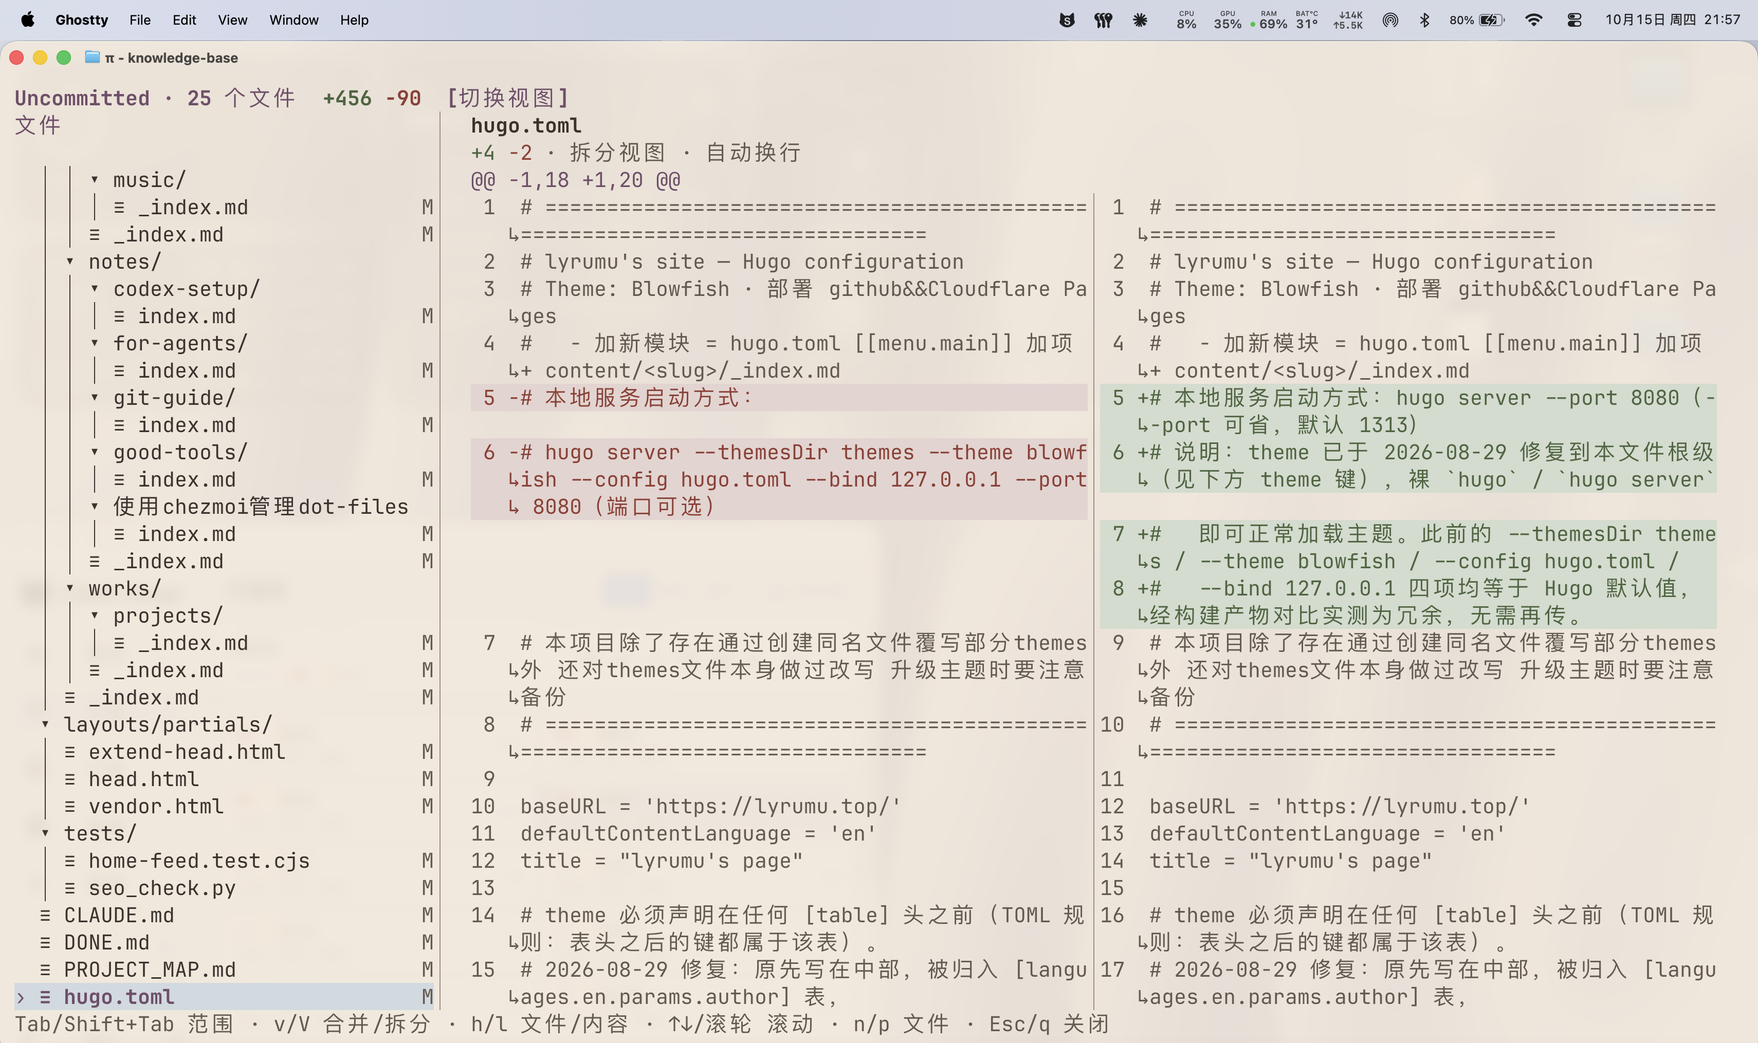
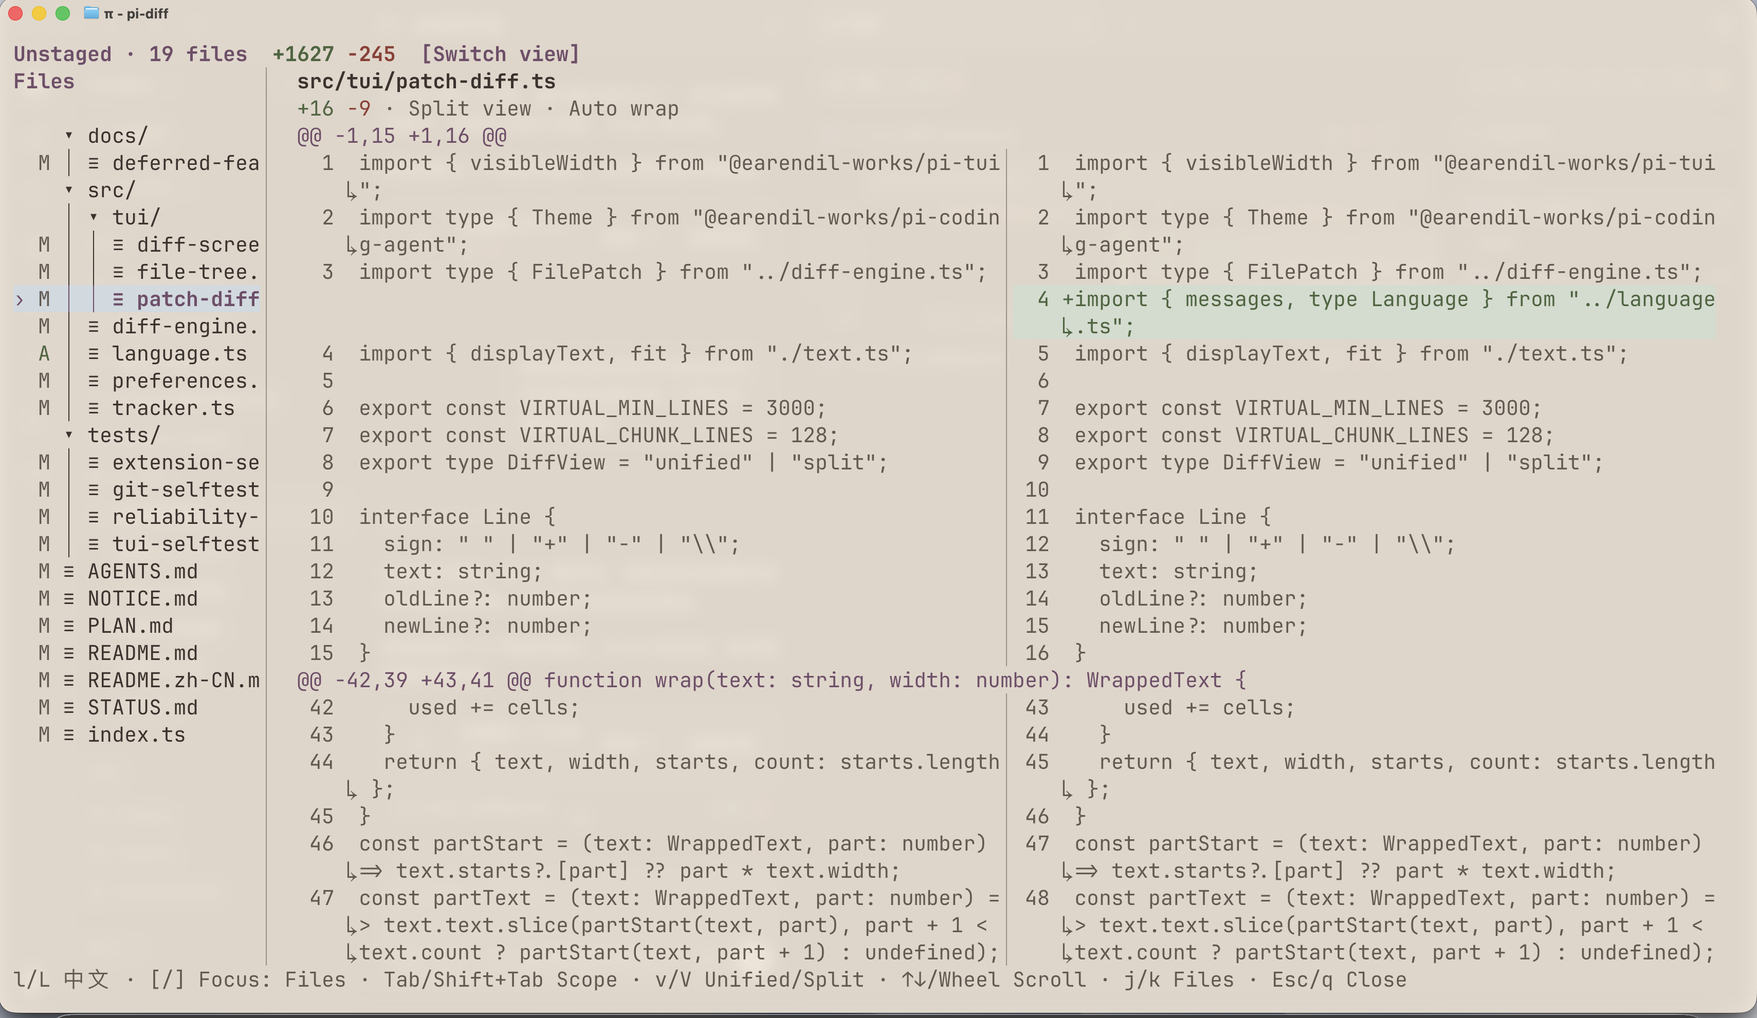
更新文章及其封面,更新pi-diff的README

diff --git a/content/works/pi-diff/index.md b/content/works/pi-diff/index.md
@@ -2,10 +2,11 @@
 title: "pi-diff"
 description: "Review pi-diff features, installation, usage, and limitations in pi, with unified and split diff views."
 date: 2026-10-16
+lastmod: 2026-10-21
 type: "work"
 layout: "page"
 draft: false
-readmeSource: "https://github.com/lyrumu/pi-diff/blob/df96f0b698a82424b9eae5c142f9e6947ff54fb1/README.md"
+readmeSource: "https://github.com/lyrumu/pi-diff/blob/5c9a75829f27d5738b945d028e99832b852b81a9/README.md"
 showHero: false
 showDate: false
 showAuthor: false
@@ -18,7 +19,7 @@ showRelatedContent: false
 showComments: false
 ---
 
-[![English](https://img.shields.io/badge/README-English-blue)](https://github.com/lyrumu/pi-diff/blob/df96f0b698a82424b9eae5c142f9e6947ff54fb1/README.md) [![简体中文](https://img.shields.io/badge/README-%E7%AE%80%E4%BD%93%E4%B8%AD%E6%96%87-lightgrey)](https://github.com/lyrumu/pi-diff/blob/df96f0b698a82424b9eae5c142f9e6947ff54fb1/README.zh-CN.md)
+[![English](https://img.shields.io/badge/README-English-blue)](https://github.com/lyrumu/pi-diff/blob/5c9a75829f27d5738b945d028e99832b852b81a9/README.md) [![简体中文](https://img.shields.io/badge/README-%E7%AE%80%E4%BD%93%E4%B8%AD%E6%96%87-lightgrey)](https://github.com/lyrumu/pi-diff/blob/5c9a75829f27d5738b945d028e99832b852b81a9/README.zh-CN.md)
 
 Review per-turn, session-wide, and Git changes in a fullscreen TUI inside [pi](https://github.com/earendil-works/pi). Browse changed files on the left and inspect diffs on the right, with mouse support, automatic line wrapping, and unified or split views.
 
@@ -26,36 +27,48 @@ Review per-turn, session-wide, and Git changes in a fullscreen TUI inside [pi](h
 
 ## Features
 
+- **Review at different scopes:** inspect the latest task, session total, or Git changes, with file counts and added/removed line totals.
+- **Keep your history:** recorded task diffs remain available after reloading pi, resuming a session, or switching session branches.
+- **Use either language:** switch between English and Simplified Chinese with `l` / `L`; your choice is remembered.
+- **Review safely:** viewing diffs does not stage, commit, or revert files. Task and session views also work outside Git repositories.
+
 ### Unified and split views
 
-Read additions and deletions together, or compare the old and new versions side by side. Press `v` / `V` or click the view toggle to switch layouts; your preference is saved. Long lines wrap automatically, with source line numbers preserved and both sides aligned in split view. Diff colors follow your pi theme. Added and deleted files always use unified view; narrow terminals also fall back to unified view.
+Read changes in one column or compare old and new content side by side. Press `v` / `V` or click the view toggle to switch. Long lines wrap automatically, and colors follow your pi theme. Added/deleted files and narrow windows use unified view.
 
-![Unified view with a changed-file tree, total line counts, and highlighted additions and deletions](unified-view.png "Unified view")
+![Unified view with a changed-file tree and highlighted additions and deletions](unified-view.png "Unified view")
 
-![Split view comparing old and new content side by side, with wrapped lines aligned](split-view.png "Split view")
+![Split view comparing old and new content side by side](split-view.png "Split view")
 
-Click a screenshot to view it at full size.
+Click either image to view it at full size.
+
+### File tree and draggable divider
+
+![File tree with A/M/D markers and a highlighted draggable divider](file-tree-resize.png)
+
+Find changed files in collapsible directories. `A`, `M`, and `D` indicate added, modified, and deleted files.
+
+Drag the divider to give more space to the tree or diff; double-click to reset. Drag to the left edge to hide the tree, then press `[` or click `[Show files]` to bring it back.
 
 ### Inspired by opencode
 
-The diff viewer takes its design and core behavior from [opencode](https://github.com/anomalyco/opencode), bringing its terminal review experience into pi through `/diff`.
-
-### Review changes without leaving pi
-
-- **Five review scopes:** inspect the last turn, session total, unstaged changes, uncommitted changes, or all branch changes. Switch with `Tab` / `Shift+Tab`.
-- **Change totals at a glance:** see the current scope's file count and total added/removed lines at the top, plus counts for the selected file.
-- **Find your way through changed files:** browse a collapsible file tree with a highlighted selection and `A` / `M` / `D` markers. Use the keyboard or click and scroll with the mouse.
-- **Pick up where you left off:** recorded per-turn diffs remain available after reloading pi, resuming a session, or switching session branches.
-- **Read-only review:** inspect changes without staging, committing, or reverting them. Last-turn and session views also work outside Git repositories.
+Inspired by [opencode](https://github.com/anomalyco/opencode), pi-diff brings its terminal diff review experience into pi through `/diff`.
 
 ***
 
 ## Installation
 
-Requires pi **1.2.0** (tested version), Node.js ≥ 22.19.0, npm, and Git.
+Project development environment: pi **1.2.0 or later**, Node.js ≥ 22.19.0, npm, and Git.
 
 ```bash
 # Install the extension
+pi install npm:@lyrumu/pi-diff
+```
+
+Alternatively, install from GitHub:
+
+```bash
+# Install from GitHub
 pi install git:github.com/lyrumu/pi-diff
 ```
 
@@ -65,54 +78,62 @@ To update or uninstall:
 
 ```bash
 # Update the extension
-pi update git:github.com/lyrumu/pi-diff
+pi update npm:@lyrumu/pi-diff
 
 # Uninstall the extension
-pi remove git:github.com/lyrumu/pi-diff
+pi remove npm:@lyrumu/pi-diff
 ```
+
+If you installed from GitHub, use `git:github.com/lyrumu/pi-diff` as the source in both commands instead.
 
 ***
 
 ## Usage
 
-Start pi in your project directory, let it make a change, then enter `/diff`. The viewer opens **Last turn** by default.
+Start pi in your project directory and enter `/diff`. Git repositories open **Unstaged** by default; other projects open **Last turn**. To browse files, press `[`, select with `j` / `k`, then press `]` to read and scroll the diff. The interface starts in English; press `l` / `L` for Simplified Chinese.
 
 Press `Tab` / `Shift+Tab` to cycle forward or backward through the available scopes:
 
 | Scope | Changes shown |
 |---|---|
-| Last turn | Changes from the most recent task; empty if that task made no changes |
+| Last turn | Changes from the most recent task |
 | Session total | Cumulative changes recorded on the current session branch |
-| Unstaged | Index → working tree: unstaged changes |
-| Uncommitted | HEAD → working tree: staged and unstaged changes |
-| All branch changes | All changes since the merge base with the default base branch, including committed and uncommitted changes |
+| Unstaged | Changes that have not been staged |
+| Uncommitted | Staged and unstaged changes |
+| All branch changes | Changes relative to the base branch, including committed and uncommitted work |
 
-Git scopes also include untracked files. Outside a Git repository, only the first two scopes are available. The extension only reads Git state; it does not stage, commit, or revert changes.
+Git scopes also include untracked files. Outside a Git repository, only the first two scopes are available.
+
+### Keyboard and mouse
+
+![English shortcut bar: l/L language, brackets for focus, Tab/Shift+Tab scope, v/V view, arrows or wheel and j/k for scrolling, Esc/q to close](keyboard-shortcuts.en.png)
+
+The shortcut bar follows the current focus: `j` / `k` select files when the tree is focused and scroll when the diff is focused.
 
 | Action | Keyboard / mouse |
 |---|---|
 | Select files and collapse directories | Click; use `↑↓` in the file tree and `Enter` / Space to expand or collapse directories |
-| Previous / next file | `p` / `n` |
-| Focus the file tree / diff | `h` / `l`; mouse interaction focuses the corresponding pane |
-| Scroll | Mouse wheel, `↑↓`, `PageUp` / `PageDown`; `Home` / `End` in the diff pane |
+| Next / previous file | `j` / `k` while the file tree is focused |
+| Focus the file tree / diff | `[` / `]`, or click the corresponding pane |
+| Resize / hide the file tree | Drag the divider; drag to the left edge to hide; double-click to reset the width |
+| Show the hidden file tree | `[` or click `[Show files]` at the top |
+| Scroll the diff | Mouse wheel, `↑↓`, `j` / `k`, `PageUp` / `PageDown`; `Home` / `End` jump to the start / end |
 | Switch unified / split view | `v` / `V`, or click the view toggle at the top |
+| Switch English / Simplified Chinese | `l` / `L` |
 | Close | `Esc` / `q` |
 
-File markers indicate modified (`M`), added (`A`), and deleted (`D`) files. Added and deleted files always use unified view. The diff pane also uses unified view when it is less than 100 columns wide. In narrow terminals, use `h` / `l` to switch between the file tree and diff pages.
-
-Long lines wrap automatically. Source line numbers appear only on the first visual row, and continuation rows use `↳`. Split views keep both sides aligned. Added and removed lines use theme colors, and your layout preference is saved.
+In narrow windows, `[` / `]` switch between the file tree and diff pages.
 
 ***
 
 ## Data and limitations
 
-- Only changes made after the extension is enabled are recorded, within the project directory. Missing history from older sessions is not recovered.
-- Per-turn diffs are saved with the pi session and remain available after reloading, resuming, or switching session branches. Content caches and layout preferences are stored in `~/.pi/agent/data/pi-diff/`.
-- Outside Git repositories, shell changes may lack the original content and show `baseline unknown`. Missing cumulative caches are explicitly marked as incomplete.
-- Binary files and diffs exceeding the 10 MB limit show a notice instead of their contents. Very narrow terminals may clip content.
+- Task and session history only covers changes recorded after enabling the extension, within the project directory. Git scopes can show existing changes.
+- Outside Git repositories, shell changes may show `Previous contents unknown`. If a complete session total cannot be restored, the viewer says so.
+- Binary files and diffs exceeding 10 MB show a notice instead of their contents.
 
 ***
 
 ## License
 
-[MIT](https://github.com/lyrumu/pi-diff/blob/df96f0b698a82424b9eae5c142f9e6947ff54fb1/LICENSE). Parts of the implementation are ported from [opencode](https://github.com/anomalyco/opencode). See [NOTICE.md](https://github.com/lyrumu/pi-diff/blob/df96f0b698a82424b9eae5c142f9e6947ff54fb1/NOTICE.md) and [third-party licenses](https://github.com/lyrumu/pi-diff/blob/df96f0b698a82424b9eae5c142f9e6947ff54fb1/THIRD_PARTY_LICENSES.md) for attribution and license terms.
+[MIT](https://github.com/lyrumu/pi-diff/blob/5c9a75829f27d5738b945d028e99832b852b81a9/LICENSE). Parts of the implementation are ported from [opencode](https://github.com/anomalyco/opencode). See [NOTICE.md](https://github.com/lyrumu/pi-diff/blob/5c9a75829f27d5738b945d028e99832b852b81a9/NOTICE.md) and [third-party licenses](https://github.com/lyrumu/pi-diff/blob/5c9a75829f27d5738b945d028e99832b852b81a9/THIRD_PARTY_LICENSES.md) for attribution and license terms.

diff --git a/content/notes/Claude网页版稳定使用方法/index.md b/content/notes/Claude网页版稳定使用方法/index.md
@@ -1,0 +1,146 @@
+---
+title: "Claude网页版稳定使用方法"
+date: 2026-10-23T11:38:07-04:00
+draft: false
+description: "记录 Claude 网页版使用环境的配置方法：选择与检测 VPS、搭建 sing-box 中转节点、导入 Clash Verge Rev，以及检查 IPv6、浏览器语言和系统时区。"
+slug: ""
+aliases: []
+weight: 0 #如果文章需要置顶 把weight改成负数即可
+tags: [] # 可留空，通常 0–2 个具体主题；由作者选择
+categories: [] # 作者选一项：tutorials / share-resources / engineering-practice
+topics: []
+series: []
+showDateUpdated: false
+dateUpdated: ""
+images: []
+showHero: true
+heroStyle: "background"
+heroBackground: ""
+heroImage: ""
+heroBackgroundImage: ""
+showTableOfContents: true
+showBreadcrumbs: true
+showReadingTime: true
+showWordCount: true
+showZenMode: true
+showRelatedContent: false
+relatedContentLimit: 3
+showComments: false
+sharingLinks: []
+---
+
+## 使用前先检查环境
+
+最终目标就是将 [Claude AI 风险监测](https://ip.net.coffee/claude/) 中的指标尽可能地都变成**绿色**，其中最重要的就是 IP 地址。
+
+> 注意，一定是先等到设备检测指标都为绿色了，再开始进入 Claude 的网址进行注册和订阅。
+>
+> 每次设备重启，都先检查一下指标是否正常，顺序不要搞错。
+
+***
+
+## 选择并检测 VPS
+
+尽量确保 IP 地址**干净纯粹并且独享**，因为 Claude 有连坐机制，同 IP 一个人被封禁，其余所有人都会受牵连。
+
+所以需要租用[海外服务器](https://digvps.com/)：点击“测评”，选择合适的 VPS。重点对比 **IP 纯净度**和**网络速度（延迟）**，地区尽可能选择美国。
+
+云服务器大致要求：
+
+| 项目 | 要求 |
+| --- | --- |
+| CPU | 1 核够用 |
+| 内存 | 512 MB 及以上 |
+| 硬盘 | 推荐 10 GB 左右 |
+| 流量 | 500 GB 左右就够用，要看租期时长 |
+
+![VPS 控制台中的服务器配置、公有 IPv4 与启动按钮](image/vps-console-redacted.png "VPS 控制台")
+
+购买 VPS 后：
+
+1. 点进去将服务器“启动”起来。
+2. 使用 [VPS 的 IP 稳定性检测](https://www.itdog.cn/ping/)，点击“在线 Ping”，检测一下该服务器的 IP 质量，一般使用公有 IPv4 进行检测。
+
+![在线 Ping 的各地区延迟检测结果](image/vps-ping-redacted.png "国内可直连，但速度比较慢，因为买得比较便宜")
+
+如果无法直连或者速度过慢，可以尝试提交工单，申请更换 IP 地址。
+
+***
+
+## 将 VPS 搭建为中转节点
+
+### 连接云服务器
+
+购买好能够使用的 VPS 后，将 VPS 搭建为一个中转节点。
+
+打开电脑终端（PowerShell 或者 Mac 的 Terminal），将下面的“用户名”和“IPv4地址”替换为服务器的信息：
+
+```bash
+# 通过 SSH 连接云服务器。
+ssh 用户名@IPv4地址
+```
+
+然后输入密码。密码不会显示在终端，实际上已经输入。
+
+这样就连接上云服务器了。之后所有操作都在云服务器上进行，本机不会被修改，可以理解为远程操控另一台电脑。
+
+![SSH 连接成功后显示的 Ubuntu 系统欢迎信息](image/ssh-connected-redacted.png "出现类似这个界面，就是连接成功了")
+
+### 安装流量中转服务
+
+然后使用脚本一键在云服务器安装流量中转服务：
+
+```bash
+# 在已连接的云服务器上安装 sing-box 流量中转服务。
+bash <(curl -fsSL --connect-timeout 15 --retry 3 https://github.com/233boy/sing-box/raw/main/install.sh)
+```
+
+执行成功之后，复制和保存显示出来的链接（URL）。这个链接就可以理解为是一个 VPN 订阅。
+
+更多信息阅读[脚本作者的文档](https://233boy.com/sing-box/sing-box-script/)。
+
+***
+
+## 配置 Clash Verge Rev
+
+1. 使用 [Vless to Clash 转换器](https://shipengtao.com/en/tools/vless-to-clash/)，把刚刚脚本执行后获得的链接 URL 转换为 `clash.yaml` 文件。
+2. 将转换好后的文件下载保存到本机电脑。
+3. 安装本机的客户端 [Clash Verge Rev](https://github.com/Clash-Verge-rev/clash-verge-rev/releases)。
+4. 进入“订阅”，新建订阅，配置选择“本地”，名称随意，然后选择刚刚的 `clash.yaml` 文件导入。
+5. 最后“使用”该订阅配置。
+
+> 记得一定要在首页安装并打开“虚拟网卡模式”，确保所有流量都走代理。
+
+然后再来到 [Claude AI 风险监测](https://ip.net.coffee/claude/)网址，刷新一下，就会发现 IP 都显示正确了。
+
+![Claude AI 风险监测中的出口 IP、信誉评分、泄漏检测和设备信息](image/claude-risk-check-redacted.png "配置代理后，检查出口 IP 与设备环境")
+
+***
+
+## 调整 IPv6、浏览器语言和时区
+
+### IPv6
+
+如果 IPv6 显示还是不对，可能需要关闭本机 IPv6（对大多数应用的使用无影响，且可以恢复）。
+
+可以告诉 AI 自己的设备，然后询问关闭 IPv6 的具体方法。
+
+### 浏览器语言
+
+最后需要把浏览器语言改为英语，删除中文语言选项，可以多备几个浏览器使用。
+
+### 系统时区
+
+然后把系统时区设置为和 VPS 地区接近的时区，也是通过询问 AI 来修改，macOS 和 Windows 方法不同。
+
+***
+
+## 注册、订阅与后续使用
+
+当 Claude AI IP 检测网页中的指标全部变绿，显示机房 IP 的警告可以忽略。似乎并不是一定要家宽，但家宽确实更好；机房 IP 的话，最好从此就不要变化了。
+
+然后就可以尝试访问 [Claude 官网](https://claude.ai/)页面进行注册和使用了。
+
+充值订阅之前，先养号一段时间（网页版聊天），然后再充值 Pro，循序渐进，最后有需要再充值 Max。充值过后最好仍保持适当的网页版聊天。
+
+使用 Claude Code 时，建议使用虚拟机，一机一号，保证环境干净纯粹。

diff --git a/.agents/skills/notes-to-hugo/SKILL.md b/.agents/skills/notes-to-hugo/SKILL.md
@@ -11,7 +11,7 @@ description: 将指定 Obsidian 笔记迁移或整理为 Hugo 文章；保留原
 
 - **内容保真**：保留原文的措辞、观点、信息、例子、命令、提示词、叙述顺序、第一人称和个人语气。可把句子移入合适的标题、列表、表格、步骤或图注，但不改变原意、不遗漏信息，也不为“完整”而补写观点、教程、步骤、风险段落、开场或总结。只有明确错字、误粘贴重复、转换歧义、难懂指代、必要前提或来源归属等具体问题才作最小修正；拿不准就保留并指出，影响使用时先问。非排版改动在交付时说明理由。
 - **源文件与范围**：项目根目录为 `/Users/lyrumu/project/lyrumu-s-page/knowledge-base`；`/Users/lyrumu/project/Notes` 全目录只读，包括原稿、附件和 `.obsidian`。只写目标文章包 `content/notes/<name>/`、对应卡片图 `assets/image/notes/` 和 `data/notes.yaml` 中该文章的映射；保护现有 WIP，不改无关文章、布局、样式或数据项。文章内容和单篇配图不写入 `DONE.md`；`DONE_ARCHIVE.md` 只读。
-- **配图顺序**：先保持本站整体风格，再让图案体现该文独有的主题与内容，默认不用文字。差异来自主体、视角和元素关系，不靠换整套画风，也不照搬相邻卡片。
+- **配图原则**：主体与元素关系从该文提取，材质与画风参照本站封面；主题辨识度和整体风格都要满足。默认不用文字，不照搬相邻卡片的主体或装饰。
 - **发布边界**：不 `git add`、commit、push、部署或自行启动 Hugo server。
 
 ## 按任务读取与创建
@@ -58,8 +58,10 @@ description: 将指定 Obsidian 笔记迁移或整理为 Hugo 文章；保留原
 ### 文章卡片配图（默认必做）
 
 - 新迁移文章默认生成主题相关卡片图；既有文章保留合适旧图，缺图或用户要求更换时才生成，用户明确不要则不做。先读 `layouts/partials/article-link/card.html`、`assets/css/_13_notes-card.css`、`data/notes.yaml` 并查看 2–3 张近期配图，辨认共同风格与重复构图。
-- 共同风格为暖米白纸纹、浅浮雕/剪纸拼贴、低饱和炭灰/灰蓝/橄榄色、少量陶土色和柔和阴影。以无需文字也能辨认的主题主体为中心，用少量次要图案体现内容；产品标志须准确且有依据，不伪造标志或界面，不把笔记本、盆栽、泛化图标组当通用封面，也不直接复用课程截图。默认无文字、字母、数字或伪代码；确需文字时先由用户决定。
-- 用 `imagegen` 技能和内置工具逐篇生成约 16:9 横图；主体放中央安全区，上方元信息和底部标题留白，考虑 `object-fit: cover`。实际查看并缩到卡片尺寸检查风格、主题、裁切与相邻卡片差异，不合格重做。
+- 生成前从标题和正文提取具体产品、工具或对象，以及文章要表达的关键关系，明确主视觉与辅助元素。主视觉突出文章的具体主题，辅助元素说明使用场景或方法；不要把具体内容抽象成适用于任意文章的“AI”“网络”“工具”图案。
+- 共同风格为暖米白纸纹、浅浮雕/剪纸拼贴、低饱和炭灰/灰蓝/橄榄色、少量陶土色和柔和阴影。旧封面只提供材质、配色、光照与工艺参考；不沿用其中与本文无关的山形、植物、设备或其他装饰。提示词中分清风格参考和主体参考，各主体应能对应到本文内容。
+- 以具体产品为主题时，保留其可识别的视觉特征；需要产品标志时，从已有可靠素材或官方来源取得准确参考，不用通用气泡、云朵或齿轮替代。产品标志与界面须有依据，不伪造，也不直接复用课程截图。默认无文字、字母、数字或伪代码；确需文字时先由用户决定。
+- 用 `imagegen` 技能和内置工具逐篇生成约 16:9 横图；主体放中央安全区，上方元信息和底部标题留白，考虑 `object-fit: cover`。实际查看并缩到卡片尺寸、模拟居中裁切，检查风格、主体与相邻卡片差异。遮住标题后仍应能辨认具体主题和核心场景；只有配色统一、却看不出文章重点，或关键元素被裁掉，均须重做。
 - 最终图放 `assets/image/notes/<name>.<ext>`；按 `.File.ContentBaseName` 在 `data/notes.yaml` 添加/更新唯一映射，`image` 写 `image/notes/<name>.<ext>`，沿用 Hugo WebP 缩放和模糊占位，不为卡片额外开启正文 hero。保护旧图与映射；更换时用新文件名，除非用户明确要求删除旧图。工具不可用时完成其他整理，报告配图未完成，不用图标/占位冒充。
 
 ## 完成检查
